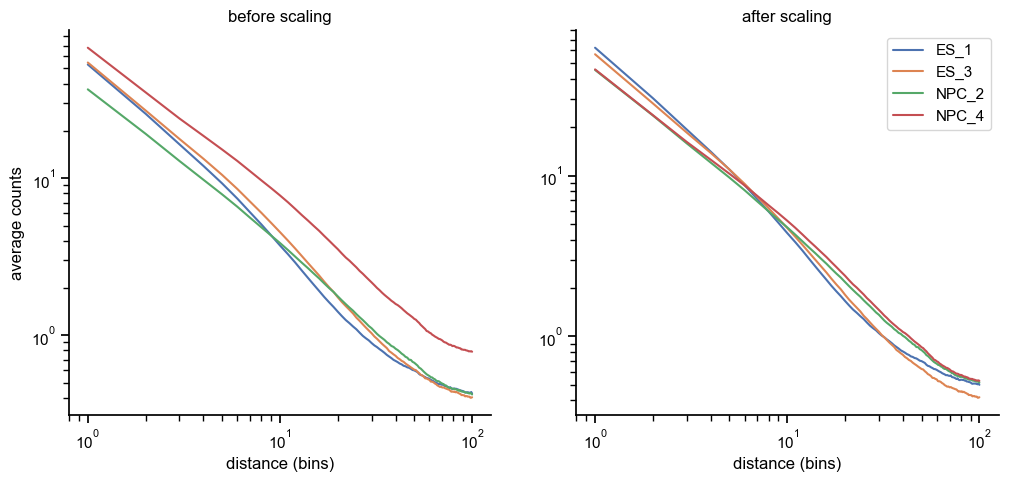
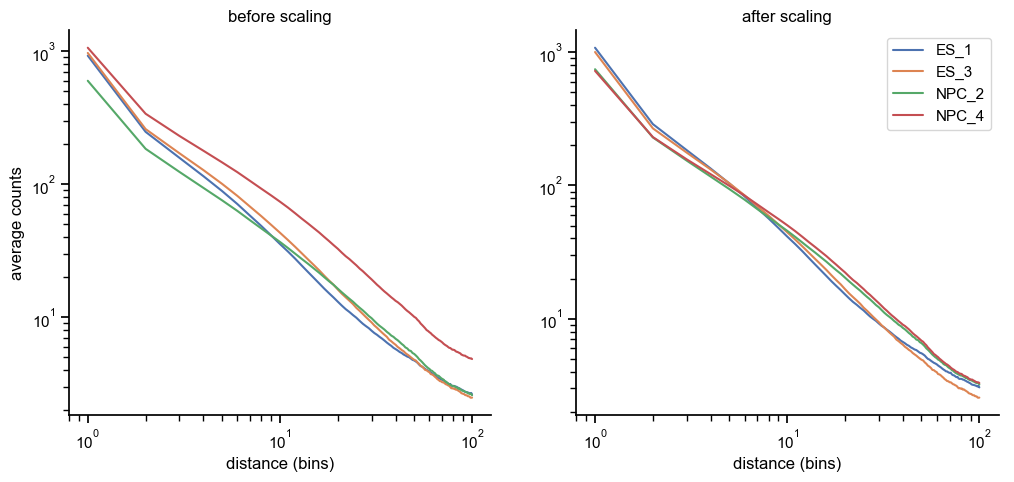
two improvements:
preparing for pipelines integration
 - updated flake8 config
 - added draft bitbucket-pipelines.yml

reworked signature of plotting.distance_dependence.plot_dd_curves()
 - now accepts row and col and uses these to infer the matrix size
 - this fixes #4

diff --git a/fast3defdr/plotting/distance_dependence.py b/fast3defdr/plotting/distance_dependence.py
@@ -5,16 +5,17 @@ from lib5c.util.plotting import plotter
 
 
 @plotter
-def plot_dd_curves(before, after, dist, design, log=True, **kwargs):
+def plot_dd_curves(row, col, before, after, design, log=True, **kwargs):
     """
     Plots a comparison of distance dependence curves before and after scaling.
 
     Parameters
     ----------
+    row, col : np.ndarray
+        Row and column indices identifying the location of pixels in ``before``
+        and ``after``.
     before, after: np.ndarray
         Counts per pixel before and after scaling, respectively.
-    dist : np.ndarray
-        Distance for each pixel, in bin units.
     design : pd.DataFrame
         DataFrame with boolean dtype whose rows correspond to replicates and
         whose columns correspond to conditions. Replicate and condition names
@@ -29,12 +30,16 @@ def plot_dd_curves(before, after, dist, design, log=True, **kwargs):
     pyplot axis
         The axis plotted on.
     """
+    dist = col - row
+    n = max(row.max(), col.max()) + 1
     dist_bin_idx = np.digitize(dist, np.linspace(0, 1000, 101), right=True)
     bs = np.arange(1, dist_bin_idx.max() + 1)
     before_means = np.array(
-        [np.mean(before[dist_bin_idx == b, :], axis=0) for b in bs])
+        [np.sum(before[dist_bin_idx == b, :], axis=0) / float(n - b)
+         for b in bs])
     after_means = np.array(
-        [np.mean(after[dist_bin_idx == b, :], axis=0) for b in bs])
+        [np.sum(after[dist_bin_idx == b, :], axis=0) / float(n - b)
+         for b in bs])
     fig, (ax1, ax2) = plt.subplots(1, 2, figsize=(12, 5))
     for r, repname in enumerate(design.index):
         ax1.plot(bs, before_means[:, r], label=repname, color='C%i' % r)

diff --git a/fast3defdr/analysis.py b/fast3defdr/analysis.py
@@ -662,10 +662,7 @@ class Fast3DeFDR(object):
         for r in range(self.design.shape[0]):
             balanced[:, r] = raw[:, r] / (bias[row, r] * bias[col, r])
 
-        # compute dist
-        dist = col - row
-
-        return plot_dd_curves(balanced, scaled, dist, self.design, log=log,
+        return plot_dd_curves(row, col, balanced, scaled, self.design, log=log,
                               **kwargs)
 
     def plot_dispersion_fit(self, chrom, cond, yaxis='disp', **kwargs):

diff --git a/fast3defdr/matrices.py b/fast3defdr/matrices.py
@@ -87,8 +87,8 @@ def sparse_intersection(fnames, bias=None):
     return csr_sum_coo.row[full_idx], csr_sum_coo.col[full_idx]
 
 
-def sparse_union(fnames, dist_thresh=1000, bias=None,
-                 size_factors=None,  mean_thresh=0.0):
+def sparse_union(fnames, dist_thresh=1000, bias=None, size_factors=None,
+                 mean_thresh=0.0):
     """
     Computes the intersection set of (row, col) pairs across multiple sparse
     matrices.
